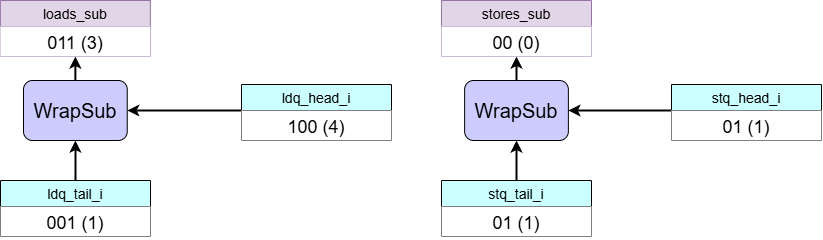
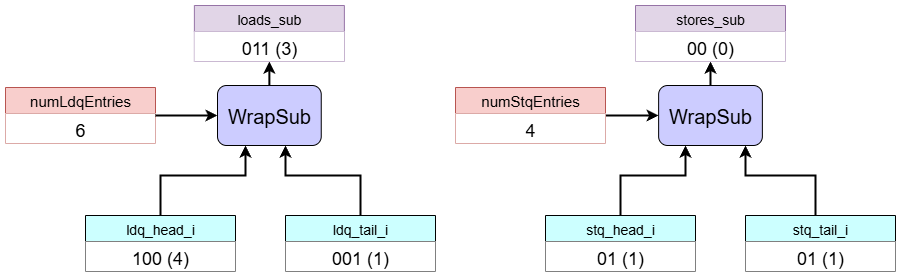
group allocation documentation

diff --git a/tools/backend/lsq-generator-python/vhdl_gen/utils.py b/tools/backend/lsq-generator-python/vhdl_gen/utils.py
@@ -406,6 +406,13 @@ def OpTab(out, tabLevel, *list_in) -> str:
 
 
 def MaskLess(din, size) -> str:
+    """
+    Example:
+        MaskLess(3, 5)  # Output: "00111"
+        MaskLess(2, 6)  # Output: "000011"
+        MaskLess(5, 5)  # Output: "11111"
+        MaskLess(0, 4)  # Output: "0000"
+    """
     if (din > size):
         raise ValueError("Unknown value!")
     return '\"' + '0'*(size-din) + '1'*din + '\"'

diff --git a/docs/LSQ/GroupAllocator.md b/docs/LSQ/GroupAllocator.md
@@ -58,62 +58,125 @@ In the VHDL Signal Name column, the following placeholders are used: `{g}` for t
 The Group Allocator has the following responsibilities:
 
 1. **Queue Space Calculator**  
-This initial block calculates the number of currently free entries in both the load queue and the store queue.
+![Occupied Entry Calculation Description](./figs/ga/GA_1_Queue_Space_Calculator.png)  
+![Occupied Entry Calculation](./figs/ga/GA_1.png)  
+    This block performs an initial calculation of the number of occupied entries in each queue.  
+    - **Input**:  
+        - `ldq_head_i`, `ldq_tail_i`: Head and tail pointers for the Load Queue.
+        - `stq_head_i`, `stq_tail_i`: Head and tail pointers for the Store Queue.  
+    - **Processing**:  
+        - It performs a cyclic subtraction (`WrapSub`) of the pointers for each queue. This calculation gives the number of empty slots but is ambiguous when the two pointers are the same (`head == tail`) since it can either mean empty or full.  
 
-    - It takes the `head` and `tail` pointers for each queue as inputs.
-    - It performs a cyclic subtraction (`WrapSub`) on the pointers (`head - tail`) to determine how many slots are currently free.
-    - However, it does not reflect when the queue is empty, so we need a further step. 
-    - The results are stored in intermediate signals (`loads_sub`, `stores_sub`).
+              WrapSub
+
+                if head >= tail:
+                    out = head - tail
+                else:
+                    out = (head + numEntries) - tail
+    - **Output**:  
+        - `loads_sub`, `stores_sub`: Intermediate signals holding the result of the cyclic subtraction for each queue.
+
 
 2. **Free Entry Calculation**  
-This block determines the final number of free entries available in each queue, which is the most critical information for deciding if a new group can be allocated.
-
-    - It uses the free entry counts from the previous block.
-    - It uses a multiplexer logic: If the queue is empty (indicated by the `ldq_empty_i` or `stq_empty_i` signal), it outputs the maximum queue size. Otherwise, it outputs `loads_sub` or `stores_sub`.
-    - The results are the final free-space counts (`empty_loads`, `empty_stores`).
-
+![Free Entry Calculation Description](./figs/ga/GA_2_Free_Entry_Calculation.png)  
+![Free Entry Calculation](./figs/ga/GA_2.png)  
+    This block determines the final number of free entries available in each queue.
+    - **Input**:
+        - `loads_sub`, `stores_sub`: The tentative free entry counts from the previous block.
+        - `ldq_empty_i`, `stq_empty_i`: Flags indicating if each queue is empty.
+    - **Processing**:
+        - It uses multiplexer logic to resolve the ambiguity of the previous step.
+        - If a queue's `empty` flag is asserted, it outputs the maximum queue size (`numLdqEntries` or `numStqEntries`).
+        - Otherwise, it outputs the result from the `WrapSub` calculation.
+    - **Output**:
+        - `empty_loads`, `empty_stores`: The definitive number of free entries in the load and store queues.
 
 3. **Ready Signal Generation**  
-This block checks if the load queue and the store queue are ready to accept a specific group allocation request.
-
-    - It compares the available free entries (from block 2) with the number of loads and stores required by each incoming group (`gaNumLoads`, `gaNumStores`).
-    - If there is enough space in both the Load and Store queues for a given group, it generates a `ready` signal for that specific group.
+![Ready Signal Generation Description](./figs/ga/GA_3_Ready_Signal_Generation.png)  
+![Ready Signal Generation](./figs/ga/GA_3.png)  
+    This block checks if there is sufficient space in the queues for each potential group.
+    - **Input**:
+        - `empty_loads`, `empty_stores`: The number of free entries available in each queue.
+        - `gaNumLoads`, `gaNumStores`: Configuration arrays specifying the number of loads and stores required by each group.
+    - **Processing**:
+        - For each group, it compares the available space (`empty_loads`, `empty_stores`) with the required space (`gaNumLoads[g]`, `gaNumStores[g]`).
+        - A group is considered "ready" only if there is enough space for *both* its loads and its stores.
+    - **Output**:
+        - `group_init_ready`: An array of ready signals, one for each group, indicating whether it could be allocated.
+        - `group_init_ready_o`: The final ready signals sent to the external logic.
 
 
 4. **Handshake and Arbitration**  
-This block performs the final handshake to select a single "winning" group for the current cycle.
+![Handshake and Arbitration Description](./figs/ga/GA_4_Handshake_and_Arbitration.png)  
+![Handshake and Arbitration](./figs/ga/GA_4.png)  
+    This block performs the final handshake to select a single oldest group for the current cycle. However, the arbitration happens when one of the configuration signal `gaMulti` is on, and this diagram depicts when `gaMulti` is off.  
+    - **Input**:
+        - `group_init_ready`: The readiness status for each group from the previous block.
+        - `group_init_valid_i`: The external valid signals for each group.
+        - (Optional) `ga_rr_mask`: A round-robin mask used for arbitration if multiple groups can be allocated (`gaMulti` is true).
+    - **Processing**:
+        - It combines the `ready` and `valid` signals. A group must be both ready and valid to be a candidate for allocation.
+        - If multiple groups are candidates, an arbitrator (e.g., `CyclicPriorityMasking`) selects a single group. If `gaMulti` is false, it assumes only one valid allocation request can occur at a time as depicted.
+    - **Output**:
+        - `group_init_hs`: A one-hot signal indicating the single group that will be allocated at the current cycle.
 
-    - It takes the `ready` signals for all groups (from block 3) and combines them with the external `group_init_valid_i` request signals.
-    - If multiple groups are both valid and ready, a round-robin arbitrator selects one group to be allocated. This block outputs the one-hot signal that indicates the winning group.
+
 
 5. **Port Index Generation**  
-This block generates the correctly aligned port indices for the newly allocated entries.
+![Port Index Generation Description](./figs/ga/GA_5_Port_Index_Generator.png)  
+![Port Index Generation](./figs/ga/GA_5.png)  
+    This block generates the correctly aligned port indices for the entries being allocated.
+    - **Input**:
+        - `group_init_hs`: A one-hot signal indicating the single group that will be allocated at the current cycle.
+        - `ldq_tail_i`, `stq_tail_i`: The current tail pointers of the queues.
+        - `gaLdPortIdx`, `gaStPortIdx`: Pre-compiled ROMs containing the port indices for each group.
+    - **Processing**:
+        - Uses the `group_init_hs` signal to perform a ROM lookup (`Mux1HROM`), selecting the list of port indices for the allocated group.
+        - Performs `CyclicLeftShift` on the selected list, using the corresponding queue's `tail` pointer as the shift amount. This aligns the indices to the correct physical queue entry slots.
+    - **Output**:
+        - `ldq_port_idx_o`, `stq_port_idx_o`: The final, shifted port indices to be written into the newly allocated queue entries.
 
-    - It performs a **ROM lookup** using the winning group's ID to fetch the pre-compiled list of port indices (e.g., `gaLdPortIdx`).
-    - It then applies a **`CyclicLeftShift`** to this list, using the queue's current `tail` pointer as the shift amount. This aligns the port indices with the correct physical entry slots in the queue.
-    - The final outputs are `ldq_port_idx_o` and `stq_port_idx_o`.
 
 6. **Order Matrix Generation**  
-This block generates the correctly aligned intra-group order matrix for the new entries.
-
-    - It performs a **ROM lookup** for the winning group to fetch its pre-compiled 2D order sub-matrix (`gaLdOrder`).
-    - It then performs a 2D `CyclicLeftShift` on this sub-matrix, using both the load and store queue `tail` pointers. This correctly places the sub-matrix within the LSQ's main order matrix, defining the dependencies for the new entries relative to existing ones.
-    - The final output is `ga_ls_order_o`.
+![Order Matrix Generation Description](./figs/ga/GA_6_Order_Matrix_Generation.png)  
+![Order Matrix Generation](./figs/ga/GA_6.png)  
+    This block generates the load-store order matrix between the new loads and stores in the allocated group.
+    - **Input**:
+        - `group_init_hs`: A one-hot signal indicating the single group that will be allocated at the current cycle.
+        - `ldq_tail_i`, `stq_tail_i`: The current tail pointers of the queues.
+        - `gaLdOrder`: A pre-compiled ROM containing the load-store order information for each group. For each group, the corresponding list indicates, from the perspective of a load, the number of stores that come before it within the same group.
+    - **Processing**:
+        - Uses `group_init_hs` to perform a ROM lookup, selecting the order information for the allocated group. This information is used to build an un-aligned load-store order matrix.
+        - A `1` in `(le, se)` indicates that `store_{se}` comes before `load_{le}`. This is built by the function `MaskLess`.
+        - Performs `CyclicLeftShift` on this matrix two times, shifting it horizontally by `stq_tail_i` and vertically by `ldq_tail_i`. This correctly places the sub-matrix within the LSQ's main order matrix.
+    - **Output**:
+        - `ga_ls_order_o`: The final, shifted load-store order matrix defining order of the new loads and stores.
 
 7. **Load/Store Count Extraction**  
-This block simply extracts the number of loads and stores for the winning group.
+![Load/Store Count Extraction Description](./figs/ga/GA_7_Load_Store_Count_Extraction.png)  
+![Load/Store Count Extraction](./figs/ga/GA_7.png)  
+    This block extracts the number of loads and stores for the allocated group.
+    - **Input**:
+        - `group_init_hs`: A one-hot signal indicating the single group that will be allocated at the current cycle.
+        - `gaNumLoads`, `gaNumStores`: Pre-compiled ROMs containing the load/store counts for each group.
+    - **Processing**:
+        - Performs a simple ROM lookup (`Mux1HROM`) using `group_init_hs` to select the number of loads and stores corresponding to the allocated group.
+    - **Output**:
+        - `num_loads_o`, `num_stores_o`: The number of loads and stores in the newly allocated group.
 
-    - It performs a **ROM lookup** for the winning group to get its specific `numLoads` and `numStores` values.
-    - These values are passed to the outputs `num_loads_o` and `num_stores_o`.
 
 8. **Write Enable Generation**  
-This final block generates the write-enable pulses that activate the newly allocated queue entries.
-
-    - It first creates an unshifted bitmask (`ldq_wen_unshifted`) based on the load/store counts from block 7. For example, if `num_loads` is 3, the mask is `0...0111`.
-    - It then applies a `CyclicLeftShift` to this mask, using the queue's `tail` pointer as the shift amount.
-    - The final shifted vector is the output (`ldq_wen_o` or `stq_wen_o`), which asserts a '1' for the precise entries in the queue that are being allocated in this cycle.
-
-
+![Write Enable Generation Description](./figs/ga/GA_8_Write_Enable_Generation.png)  
+![Write Enable Generation](./figs/ga/GA_8.png)  
+    This final block generates the write-enable signals to allocate the new queue entries.
+    - **Input**:
+        - `num_loads`, `num_stores`: The load/store counts from the previous block.
+        - `ldq_tail_i`, `stq_tail_i`: The current tail pointers of the queues.
+    - **Processing**:
+        - First, it creates an unshifted bitmask. For example, if `num_loads` is 3, the mask is `...00111`.
+        - It then applies `CyclicLeftShift` to this mask, using the queue's `tail` pointer as the shift amount. This rotates the block of `1`s to start at the `tail` position.
+    - **Output**:
+        - `ldq_wen_o`, `stq_wen_o`: The final write-enable vectors, which assert a '1' for the precise entries in each queue that are being allocated.
 
 
 ## 3. Dataflow Walkthrough
@@ -128,7 +191,7 @@ This walkthrough explains the step-by-step operation of the `Group Allocator` ba
     * Load Queue: `ldq_tail`=1, `ldq_head`=4, `ldq_empty_i`=0 (Not Empty)
     * Store Queue: `stq_tail`=1, `stq_head`=1, `stq_empty_i`=1 (Empty)
 * **Queue Sizes**: `numLdqEntries`=6, `numStqEntries`=4
-* **Group Request**: `group_init_valid_i`=`[1,0,0,0,0]` (Only Group 0 is requesting)
+* **Group Allocation Request**: `group_init_valid_i`=`[1,0,0,0,0]` (Only Group 0 is requesting for the allocation)
 * **Group Configurations**:
     * `gaNumLoads` = `[3, 2, 1, 6, 3]`
     * `gaNumStores` = `[2, 1, 2, 3, 4]`
